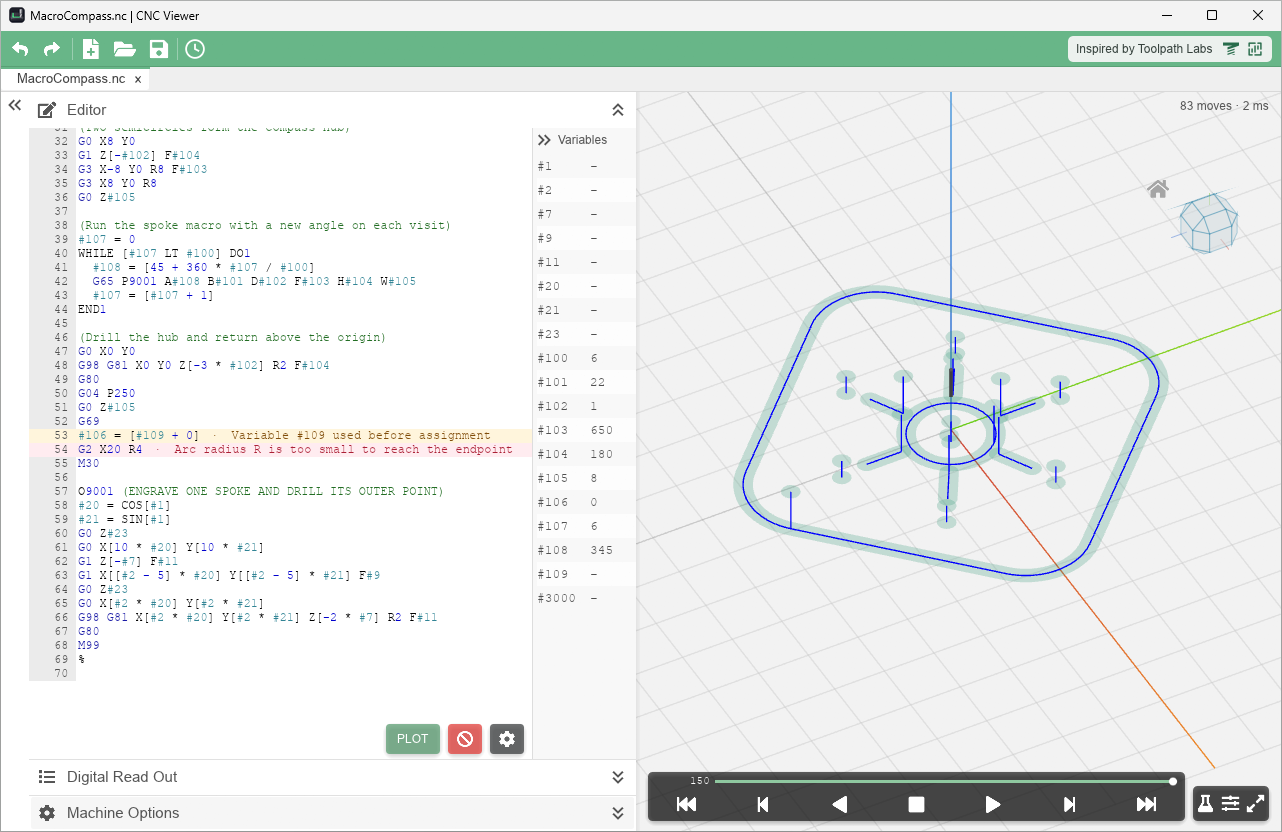
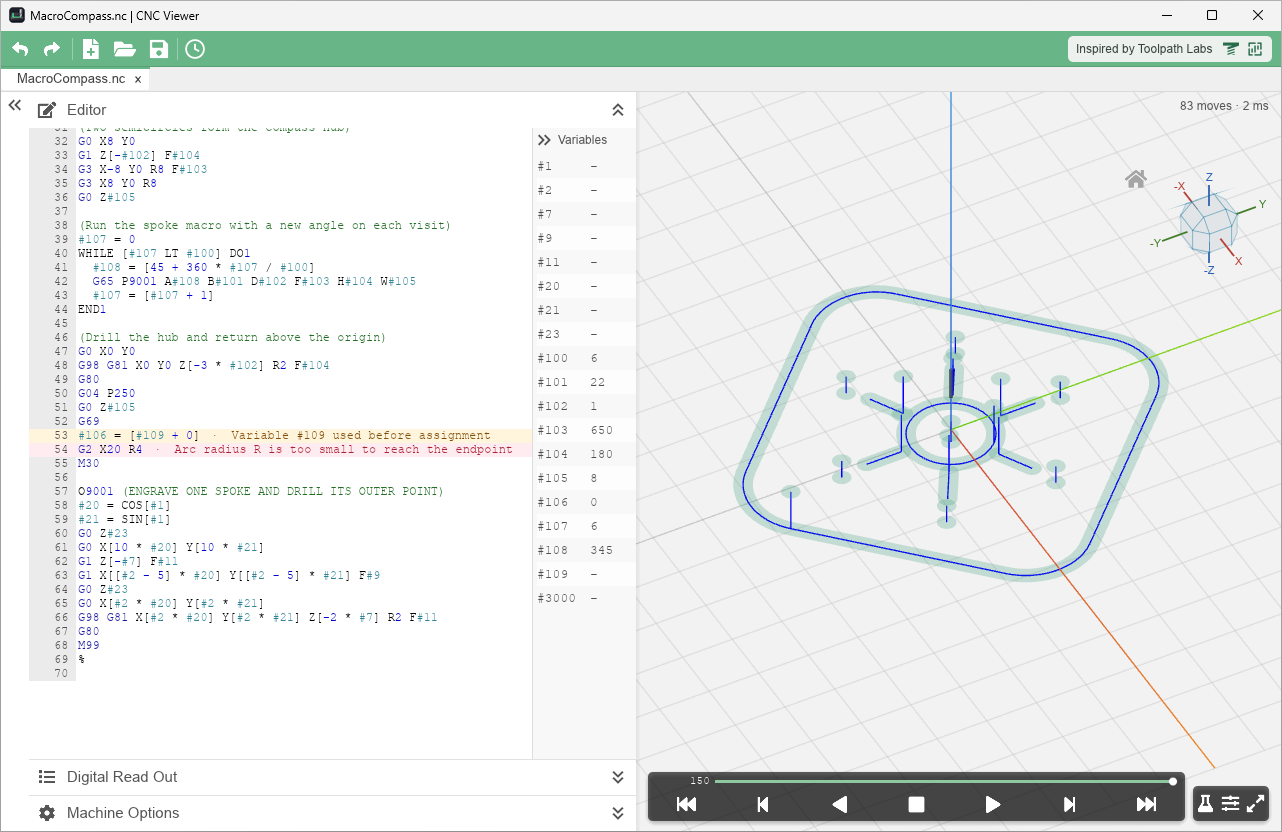
Remove redundant editor plot controls

Changed region(s): [[0.2808, 0.8438, 0.4056, 0.9062], [0.8736, 0.1875, 0.936, 0.25]]

diff --git a/crates/cnc-app/src/app/view.rs b/crates/cnc-app/src/app/view.rs
@@ -65,7 +65,7 @@ const INK: Color32 = Color32::from_rgb(85, 85, 85);
 const TOOL_INK: Color32 = Color32::from_gray(51);
 const MINT: Color32 = Color32::from_rgb(143, 200, 160);
 const BANNER_GREEN: Color32 = Color32::from_rgb(104, 182, 136);
-const PLOT_COLORS: ([u8; 3], [u8; 3]) = ([86, 156, 110], [124, 190, 146]);
+const GREEN_ACTION_COLORS: ([u8; 3], [u8; 3]) = ([86, 156, 110], [124, 190, 146]);
 const GRAY_ACTION_COLORS: ([u8; 3], [u8; 3]) = ([55, 58, 60], [127, 130, 139]);
 const DISABLED_ACTION_TEXT: Color32 = Color32::from_gray(125);
 const SYNC_WIDTHS: [f32; 3] = [67., 82., 70.];
@@ -121,7 +121,6 @@ enum Icon {
     Flask,
     Sliders,
     Expand(bool),
-    Clear,
     Down,
     Up,
     Play(bool),
@@ -196,7 +195,6 @@ fn icon(ui: &egui::Ui, rect: Rect, icon: Icon, color: Color32) {
         Icon::Sliders => (13, 21.),
         Icon::Expand(false) => (14, 19.),
         Icon::Expand(true) => (15, 19.),
-        Icon::Clear => (16, 17.),
         Icon::Play(_) => (18, 18.),
         Icon::Pause => (19, 17.),
         Icon::Stop => (20, 17.),
@@ -299,7 +297,7 @@ fn green_action(
     paint_action(
         ui,
         rect,
-        PLOT_COLORS,
+        GREEN_ACTION_COLORS,
         enabled,
         response.hovered() || response.has_focus(),
     );
@@ -436,34 +434,6 @@ impl App {
             INK,
         );
         self.playback(ui, plot, left);
-        if self.editor_options {
-            let mut open_find = false;
-            egui::Window::new("Editor options")
-                .id(self.local_id("editor-options-window"))
-                .open(&mut self.editor_options)
-                .collapsible(false)
-                .resizable(false)
-                .show(ui.ctx(), |ui| {
-                    ui.add(
-                        egui::Slider::new(&mut self.settings.font_size, 9. ..=24.)
-                            .text("Font size"),
-                    );
-                    ui.horizontal(|ui| {
-                        ui.label("Theme");
-                        egui::ComboBox::from_id_salt("editor-theme")
-                            .selected_text(if self.settings.dark { "Dark" } else { "Light" })
-                            .show_ui(ui, |ui| {
-                                ui.selectable_value(&mut self.settings.dark, false, "Light");
-                                ui.selectable_value(&mut self.settings.dark, true, "Dark");
-                            });
-                    });
-                    open_find = ui.button("Find / replace").clicked();
-                });
-            if open_find {
-                self.open_find(ui.ctx(), false);
-                self.editor_options = false;
-            }
-        }
     }
     fn header(&mut self, ui: &mut egui::Ui, full: Rect, tabs: Option<&mut tabs::Strip<'_>>) {
         let y = full.min.y;
@@ -680,6 +650,16 @@ impl App {
                 self.save(true);
                 ui.close();
             }
+            if ui.button("Find / replace").clicked() {
+                self.open_find(ui.ctx(), false);
+                ui.close();
+            }
+            ui.menu_button("Editor appearance", |ui| {
+                ui.add(
+                    egui::Slider::new(&mut self.settings.font_size, 9. ..=24.).text("Font size"),
+                );
+                ui.checkbox(&mut self.settings.dark, "Dark theme");
+            });
         });
         if let Some(area) = sync {
             self.disk_conflict(ui, area);
@@ -1294,51 +1274,6 @@ impl App {
         });
         if changed {
             self.edited(ui.ctx());
-        }
-        let y = code.max.y - 35.;
-        let x = (code.max.x - 146.).max(code.min.x);
-        let plot = Rect::from_min_size(Pos2::new(x, y), Vec2::new(54., 30.));
-        if green_action(ui, plot, ui.scope_id().with("plot"), "PLOT", true)
-            .on_hover_text("Plot · Ctrl+Enter")
-            .clicked()
-        {
-            self.replot();
-        }
-        let clear = Rect::from_min_size(Pos2::new(x + 62., y), Vec2::new(34., 30.));
-        paint_action(
-            ui,
-            clear,
-            ([229, 57, 53], [239, 83, 80]),
-            true,
-            ui.rect_contains_pointer(clear),
-        );
-        if button(
-            ui,
-            clear,
-            "clear-plot",
-            Icon::Clear,
-            Color32::WHITE,
-            "Clear toolpath",
-        ) {
-            self.clear_plot("");
-        }
-        let options = clear.translate(Vec2::new(42., 0.));
-        paint_action(
-            ui,
-            options,
-            GRAY_ACTION_COLORS,
-            true,
-            ui.rect_contains_pointer(options),
-        );
-        if button(
-            ui,
-            options,
-            "editor-options",
-            Icon::Gear,
-            Color32::WHITE,
-            "Editor options",
-        ) {
-            self.editor_options = !self.editor_options;
         }
         let divider = [vars.min, Pos2::new(vars.min.x, vars.max.y)];
         let mut color = Color32::from_gray(221);

diff --git a/crates/cnc-app/src/app.rs b/crates/cnc-app/src/app.rs
@@ -159,12 +159,11 @@ pub struct App {
     opened_at: u64,
     edited_at: u64,
     resume_plot: Option<project::PlotPosition>,
-    plot_cleared: bool,
+    plot_paused: bool,
     settings_dirty: bool,
     capture_path: Option<PathBuf>,
     capture_frame: usize,
     popup: u8,
-    editor_options: bool,
     fullscreen: bool,
     canvas_size: Vec2,
     scroll_line: Option<usize>,
@@ -304,12 +303,11 @@ impl App {
             opened_at: session::now(),
             edited_at: 0,
             resume_plot: None,
-            plot_cleared: false,
+            plot_paused: false,
             settings_dirty: false,
             capture_path,
             capture_frame: 0,
             popup,
-            editor_options: false,
             fullscreen: false,
             canvas_size: Vec2::new(1280., 800. - view::TOOLBAR_HEIGHT),
             scroll_line: None,
@@ -333,7 +331,7 @@ impl App {
         self.busy = false;
     }
     fn request_plot(&mut self, fit: bool) {
-        self.plot_cleared = false;
+        self.plot_paused = false;
         self.cancel_plot();
         self.diagnostics.clear();
         self.edit_deadline = None;
@@ -544,30 +542,6 @@ impl App {
             }
         }
         self.running = false;
-    }
-    fn clear_plot(&mut self, status: &str) {
-        self.plot_cleared = true;
-        self.resume_plot = None;
-        self.cancel_plot();
-        self.edit_deadline = None;
-        self.preview_stale = false;
-        if !self.model.executions.is_empty()
-            || !self.model.segments.is_empty()
-            || !self.model.diagnostics.is_empty()
-            || !self.model.warnings.is_empty()
-        {
-            self.model = Arc::new(Model::default());
-            let _ = self.plot.load(&self.model);
-        }
-        self.step = 0;
-        self.time = 0.;
-        self.selected_line = 0;
-        self.scroll_line = None;
-        self.last_stop = None;
-        self.running = false;
-        self.busy = false;
-        self.diagnostics.clear();
-        self.status = status.to_owned();
     }
     fn play(&mut self, forward: bool) {
         if self.model.executions.is_empty() || self.preview_stale {
@@ -2266,5 +2240,18 @@ mod tests {
         frame(&mut app, vec![egui::Event::Text("(edited)".into())]);
         assert!(!app.running);
         assert!(app.documents[name].contains("(edited)"));
+
+        let mut recovered = project::Project::new(
+            "recovered".into(),
+            "recovered.nc",
+            "G0 X0\nG1 X10 F100\nM30\n",
+        );
+        recovered.plot_paused = true;
+        app.install_project(recovered);
+        assert!(!app.busy && app.model.moves.is_empty());
+        assert!(app.status.contains("Ctrl+Enter"));
+        frame(&mut app, command_key(Key::Enter));
+        finish_plot(&mut app);
+        assert_eq!(app.model.moves.last().unwrap().end, [10., 0., 0.]);
     }
 }

diff --git a/crates/cnc-app/src/app/window.rs b/crates/cnc-app/src/app/window.rs
@@ -283,9 +283,6 @@ impl Window {
                     published: Some(published),
                 });
                 pane.viewer.install_project(project);
-                if interrupted {
-                    pane.viewer.status = "Tabs recovered. Press Plot to resume.".into();
-                }
                 pane.reveal = true;
             }
         }
@@ -625,7 +622,7 @@ fn restore_projects(candidates: &[OpenTab], pause_plots: bool) -> Vec<(Project, 
         let path = session::canonical(&tab.path);
         if !seen.contains(&path) {
             if let Ok(mut project) = Project::restore(tab) {
-                project.plot_cleared = pause_plots;
+                project.plot_paused = pause_plots;
                 seen.insert(path);
                 restored.push((project, tab.clone()));
                 if restored.len() == session::RESTORE_LIMIT {
@@ -1005,7 +1002,7 @@ mod tests {
         let (reopened, candidates, interrupted) = Session::start(root.clone(), true).unwrap();
         assert!(!interrupted);
         let restored = restore_projects(&candidates, interrupted);
-        assert!(restored.iter().all(|(project, _)| !project.plot_cleared));
+        assert!(restored.iter().all(|(project, _)| !project.plot_paused));
         let ids = restored
             .iter()
             .map(|(_, record)| record.id.as_str())
@@ -1022,7 +1019,7 @@ mod tests {
         let restored = restore_projects(&candidates, interrupted);
         assert!(interrupted);
         assert_eq!(restored.len(), 7);
-        assert!(restored.iter().all(|(project, _)| project.plot_cleared));
+        assert!(restored.iter().all(|(project, _)| project.plot_paused));
         drop(recovered);
         let (clean, candidates, interrupted) = Session::start(root.clone(), false).unwrap();
         assert!(!interrupted);

diff --git a/crates/cnc-app/src/app/project.rs b/crates/cnc-app/src/app/project.rs
@@ -21,7 +21,8 @@ pub(super) struct Project {
     camera: Camera,
     resume: Option<PlotPosition>,
     settings: Option<Settings>,
-    pub(super) plot_cleared: bool,
+    #[serde(rename = "plot_cleared")]
+    pub(super) plot_paused: bool,
     find: find::Find,
 }
 
@@ -51,7 +52,7 @@ impl Project {
             camera: Camera::default(),
             resume: None,
             settings: None,
-            plot_cleared: false,
+            plot_paused: false,
             find: find::Find::default(),
         }
     }
@@ -144,7 +145,7 @@ impl App {
             camera: self.camera.clone(),
             resume: self.project_position(),
             settings: Some(self.settings.clone()),
-            plot_cleared: self.plot_cleared,
+            plot_paused: self.plot_paused,
             find: self.find.clone(),
         }
     }
@@ -177,7 +178,7 @@ impl App {
             camera: self.camera.clone(),
             resume: self.project_position(),
             settings: Some(self.settings.clone()),
-            plot_cleared: self.plot_cleared,
+            plot_paused: self.plot_paused,
             find: std::mem::take(&mut self.find),
         }
     }
@@ -213,9 +214,9 @@ impl App {
         self.model = Arc::default();
         let _ = self.plot.load(&self.model);
         self.preview_stale = false;
-        self.plot_cleared = project.plot_cleared;
-        if self.plot_cleared {
-            self.status = "Plot cleared".into();
+        self.plot_paused = project.plot_paused;
+        if self.plot_paused {
+            self.status = "Plot paused. Press Ctrl+Enter to plot.".into();
             self.diagnostics.clear();
         } else {
             self.request_plot(self.resume_plot.is_none());

diff --git a/README.md b/README.md
@@ -30,7 +30,7 @@ To read the complete agent guide, run this from Command Prompt in the download f
 CNC-Viewer-windows-x64.exe --help agents
 ```
 
-After an unexpected exit, restored tabs open with plotting paused. Use `--no-restore` to start with a blank tab and keep the saved session for later.
+After an unexpected exit, restored tabs open with plotting paused. Press Ctrl+Enter to plot the active tab. Use `--no-restore` to start with a blank tab and keep the saved session for later.
 
 Contributions are welcome, especially for items in [Next work](#next-work). [Icon artwork credits](crates/cnc-app/assets/NOTICE.md).
 
